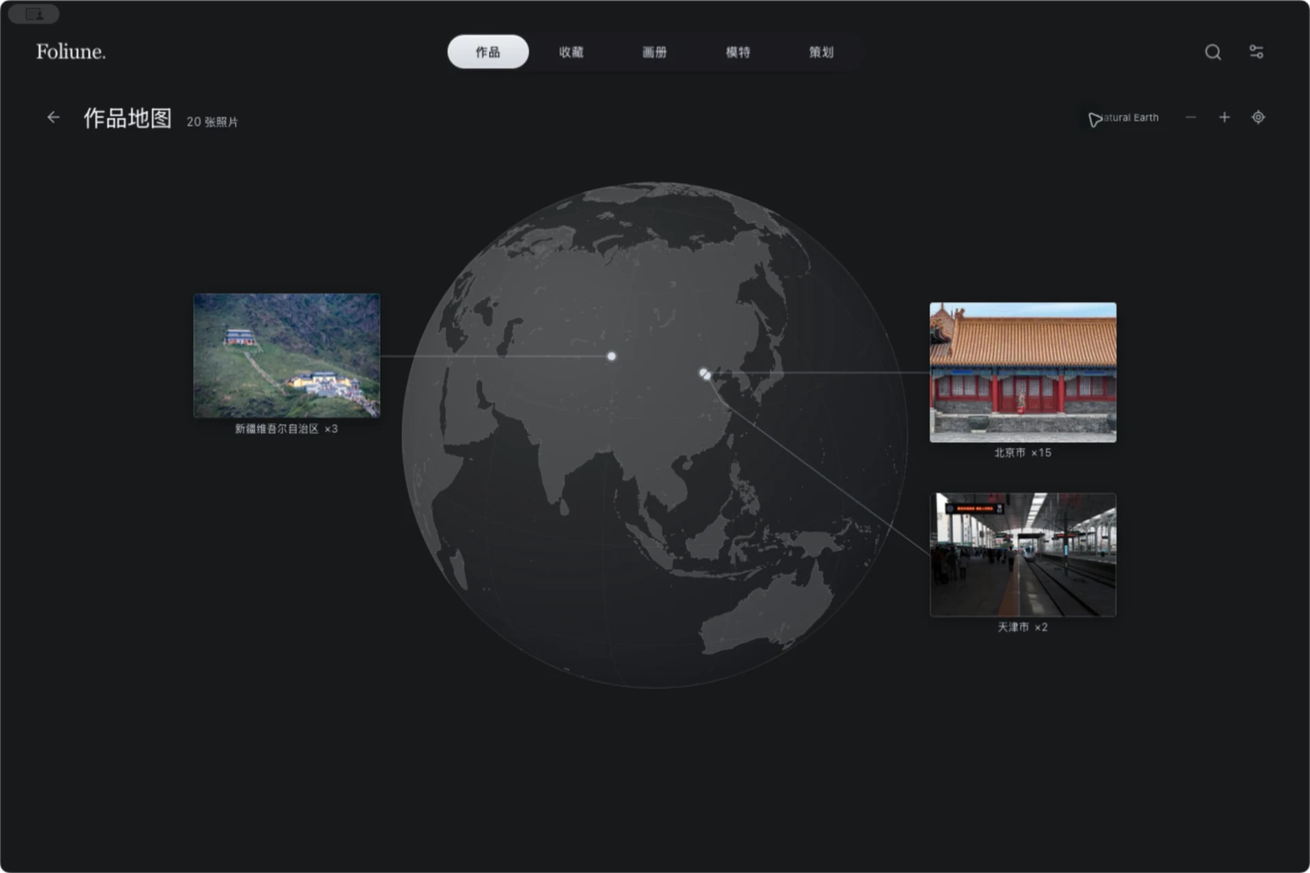
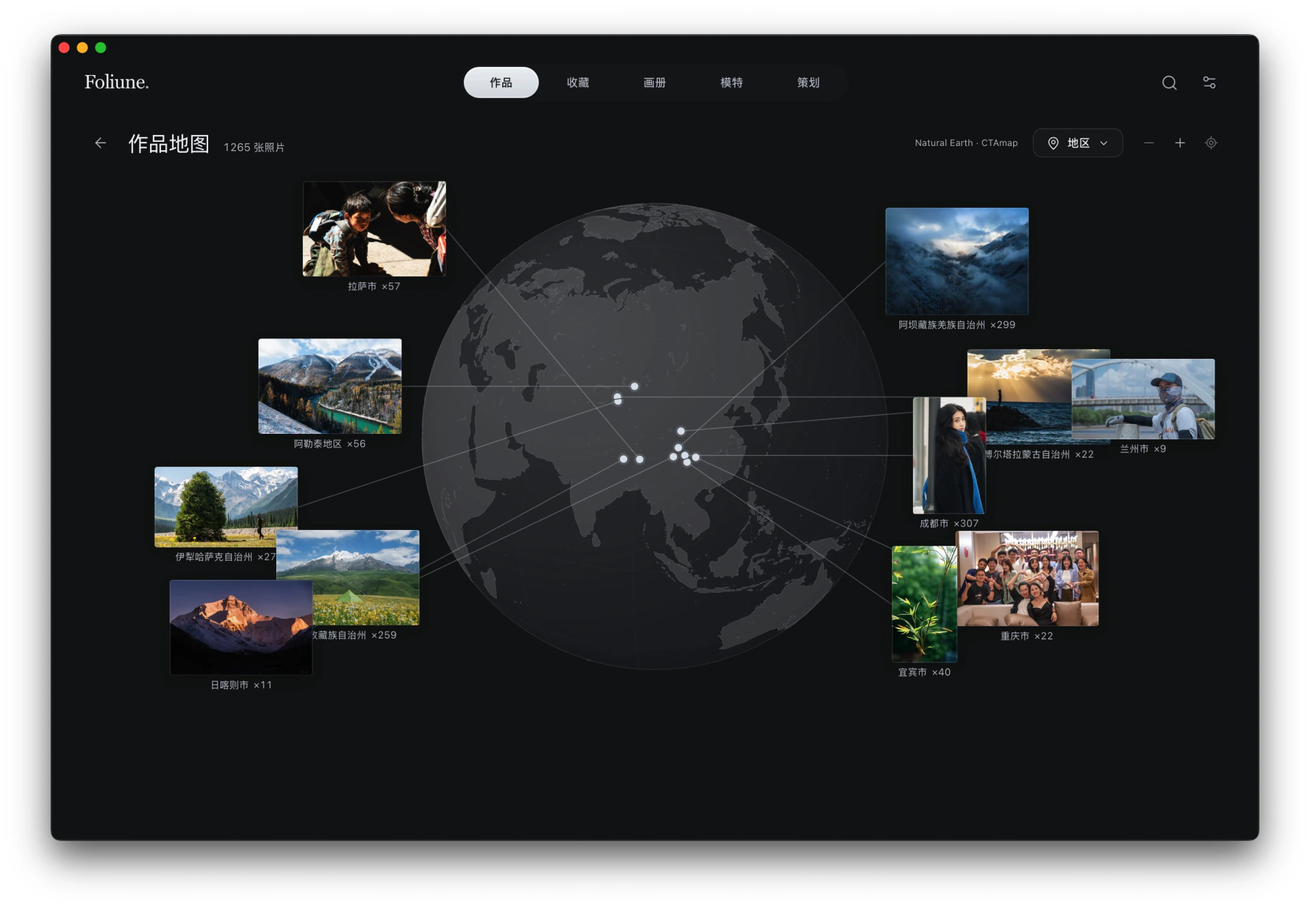
feat(website): 区分下载平台并更新双语作品地图截图
在中英文官网区分 macOS 下载和 Windows 计划状态，将首次打开须知移到下载按钮前。官网及 README 使用各自语言的作品地图截图，并同步更新截图来源说明。

收录相簿电视欣赏的可行性研究，记录兼容性判断和真机验收条件。

diff --git a/site/en.html b/site/en.html
@@ -77,7 +77,7 @@
           <h2 id="work-map-title">Revisit work by location</h2>
           <p>Select a representative photograph on the offline globe to see more work from that region. You can also set a shooting region for photos without GPS data.</p>
         </div>
-        <img class="screenshot" src="assets/works-map.webp" alt="Foliune’s Work Map with lines connecting photographs from Beijing, Tianjin, and Xinjiang to locations on the globe." width="1920" height="1280" loading="lazy" decoding="async">
+        <img class="screenshot" src="assets/works-map-en.webp" alt="Foliune’s English Work Map with lines connecting representative photographs to their shooting locations on the globe." width="1920" height="1331" loading="lazy" decoding="async">
       </section>
 
       <section class="feature" aria-labelledby="planning-title">
@@ -124,31 +124,36 @@
       </section>
 
       <section class="download" id="download" aria-labelledby="download-title">
-        <div>
-          <h2 id="download-title">Download Foliune</h2>
-          <p class="download-version"><span id="release-version" hidden><span id="release-tag"></span> <span aria-hidden="true">·</span> </span>macOS <span aria-hidden="true">·</span> Apple Silicon</p>
-        </div>
-        <div class="download-details">
-          <div class="download-links">
-            <a class="button" id="release-download" href="https://github.com/stardut/Foliune/releases/latest">
-              <span id="release-download-label" data-download-label="Download DMG">Download on GitHub</span>
-              <svg aria-hidden="true" width="15" height="15" viewBox="0 0 16 16" fill="none" stroke="currentColor" stroke-width="1.4" stroke-linecap="round" stroke-linejoin="round">
-                <path d="M8 2v8m-3-3 3 3 3-3M3 11v3h10v-3"/>
-              </svg>
-            </a>
-            <a class="button button-secondary" id="release-notes" href="https://github.com/stardut/Foliune/releases/latest" hidden>Release notes
-              <svg aria-hidden="true" width="15" height="15" viewBox="0 0 16 16" fill="none" stroke="currentColor" stroke-width="1.4" stroke-linecap="round" stroke-linejoin="round">
-                <path d="M4 2h5l3 3v9H4zM9 2v3h3M6 8h4m-4 3h4"/>
-              </svg>
-            </a>
-          </div>
-          <section class="first-open" aria-labelledby="first-open-title">
-            <h3 id="first-open-title">Opening Foliune for the first time</h3>
-            <p>The developer hasn’t saved up for an Apple Developer membership yet.</p>
-            <p>If macOS blocks the first launch, follow this path.</p>
-            <p class="first-open-path"><span>System Settings</span> <span>→ Privacy &amp; Security</span> <span>→ <strong>Open Anyway</strong></span></p>
+        <h2 id="download-title">Download Foliune</h2>
+        <div class="download-platforms">
+          <section class="download-macos" aria-labelledby="download-macos-title">
+            <h3 id="download-macos-title">macOS</h3>
+            <p class="download-version"><span id="release-version" hidden><span id="release-tag"></span> <span aria-hidden="true">·</span> </span>For Macs with Apple silicon</p>
+            <section class="first-open" aria-labelledby="first-open-title">
+              <h4 id="first-open-title">Opening Foliune for the first time</h4>
+              <p>The developer hasn’t saved up for an Apple Developer membership yet.</p>
+              <p>If macOS blocks the first launch, follow this path.</p>
+              <p class="first-open-path"><span>System Settings</span> <span>→ Privacy &amp; Security</span> <span>→ <strong>Open Anyway</strong></span></p>
+            </section>
+            <div class="download-links">
+              <a class="button" id="release-download" href="https://github.com/stardut/Foliune/releases/latest">
+                <span id="release-download-label" data-download-label="Download for macOS">Download for macOS on GitHub</span>
+                <svg aria-hidden="true" width="15" height="15" viewBox="0 0 16 16" fill="none" stroke="currentColor" stroke-width="1.4" stroke-linecap="round" stroke-linejoin="round">
+                  <path d="M8 2v8m-3-3 3 3 3-3M3 11v3h10v-3"/>
+                </svg>
+              </a>
+              <a class="button button-secondary" id="release-notes" href="https://github.com/stardut/Foliune/releases/latest" hidden>Release notes
+                <svg aria-hidden="true" width="15" height="15" viewBox="0 0 16 16" fill="none" stroke="currentColor" stroke-width="1.4" stroke-linecap="round" stroke-linejoin="round">
+                  <path d="M4 2h5l3 3v9H4zM9 2v3h3M6 8h4m-4 3h4"/>
+                </svg>
+              </a>
+            </div>
+            <p class="download-note">To update, go to Settings → App Updates.</p>
           </section>
-          <p class="download-note">To update, go to Settings → App Updates.</p>
+          <section class="download-windows" aria-labelledby="download-windows-title">
+            <h3 id="download-windows-title">Windows</h3>
+            <p class="platform-status">Planned</p>
+          </section>
         </div>
       </section>
     </main>

diff --git a/site/index.html b/site/index.html
@@ -78,7 +78,7 @@
           <h2 id="work-map-title">按地点回看作品</h2>
           <p>在离线地球上点选代表照，回看当地拍下的作品。照片缺少 GPS 时，可手动补录拍摄地区。</p>
         </div>
-        <img class="screenshot" src="assets/works-map.webp" alt="Foliune 作品地图，北京、天津与新疆的代表照片通过引线连接地球上的拍摄地点。" width="1920" height="1280" loading="lazy" decoding="async">
+        <img class="screenshot" src="assets/works-map.webp" alt="Foliune 中文作品地图，拉萨、阿勒泰、成都等地区的代表照片通过引线连接地球上的拍摄地点。" width="1920" height="1331" loading="lazy" decoding="async">
       </section>
 
       <section class="feature" aria-labelledby="planning-title">
@@ -125,31 +125,36 @@
       </section>
 
       <section class="download" id="download" aria-labelledby="download-title">
-        <div>
-          <h2 id="download-title">下载 Foliune</h2>
-          <p class="download-version"><span id="release-version" hidden><span id="release-tag"></span> <span aria-hidden="true">·</span> </span>macOS <span aria-hidden="true">·</span> Apple Silicon</p>
-        </div>
-        <div class="download-details">
-          <div class="download-links">
-            <a class="button" id="release-download" href="https://github.com/stardut/Foliune/releases/latest">
-              <span id="release-download-label" data-download-label="下载 DMG">前往 GitHub 下载</span>
-              <svg aria-hidden="true" width="15" height="15" viewBox="0 0 16 16" fill="none" stroke="currentColor" stroke-width="1.4" stroke-linecap="round" stroke-linejoin="round">
-                <path d="M8 2v8m-3-3 3 3 3-3M3 11v3h10v-3"/>
-              </svg>
-            </a>
-            <a class="button button-secondary" id="release-notes" href="https://github.com/stardut/Foliune/releases/latest" hidden>查看版本说明
-              <svg aria-hidden="true" width="15" height="15" viewBox="0 0 16 16" fill="none" stroke="currentColor" stroke-width="1.4" stroke-linecap="round" stroke-linejoin="round">
-                <path d="M4 2h5l3 3v9H4zM9 2v3h3M6 8h4m-4 3h4"/>
-              </svg>
-            </a>
-          </div>
-          <section class="first-open" aria-labelledby="first-open-title">
-            <h3 id="first-open-title">首次打开 Foliune</h3>
-            <p>开发者还没攒够 Apple 开发者会员费。</p>
-            <p>若首次打开被拦截，请按这个路径操作。</p>
-            <p class="first-open-path"><span>系统设置</span> <span>→ 隐私与安全性</span> <span>→ <strong>仍要打开</strong></span></p>
+        <h2 id="download-title">下载 Foliune</h2>
+        <div class="download-platforms">
+          <section class="download-macos" aria-labelledby="download-macos-title">
+            <h3 id="download-macos-title">macOS</h3>
+            <p class="download-version"><span id="release-version" hidden><span id="release-tag"></span> <span aria-hidden="true">·</span> </span>适用于搭载 Apple 芯片的 Mac</p>
+            <section class="first-open" aria-labelledby="first-open-title">
+              <h4 id="first-open-title">首次打开 Foliune</h4>
+              <p>开发者还没攒够 Apple 开发者会员费。</p>
+              <p>若首次打开被拦截，请按这个路径操作。</p>
+              <p class="first-open-path"><span>系统设置</span> <span>→ 隐私与安全性</span> <span>→ <strong>仍要打开</strong></span></p>
+            </section>
+            <div class="download-links">
+              <a class="button" id="release-download" href="https://github.com/stardut/Foliune/releases/latest">
+                <span id="release-download-label" data-download-label="下载 macOS 版">前往 GitHub 下载 macOS 版</span>
+                <svg aria-hidden="true" width="15" height="15" viewBox="0 0 16 16" fill="none" stroke="currentColor" stroke-width="1.4" stroke-linecap="round" stroke-linejoin="round">
+                  <path d="M8 2v8m-3-3 3 3 3-3M3 11v3h10v-3"/>
+                </svg>
+              </a>
+              <a class="button button-secondary" id="release-notes" href="https://github.com/stardut/Foliune/releases/latest" hidden>查看版本说明
+                <svg aria-hidden="true" width="15" height="15" viewBox="0 0 16 16" fill="none" stroke="currentColor" stroke-width="1.4" stroke-linecap="round" stroke-linejoin="round">
+                  <path d="M4 2h5l3 3v9H4zM9 2v3h3M6 8h4m-4 3h4"/>
+                </svg>
+              </a>
+            </div>
+            <p class="download-note">已安装可在「设置 → 应用更新」检查新版。</p>
           </section>
-          <p class="download-note">已安装可在「设置 → 应用更新」检查新版。</p>
+          <section class="download-windows" aria-labelledby="download-windows-title">
+            <h3 id="download-windows-title">Windows</h3>
+            <p class="platform-status">计划中</p>
+          </section>
         </div>
       </section>
     </main>

diff --git a/site/styles.css b/site/styles.css
@@ -290,16 +290,38 @@ h2 {
 }
 
 .download {
-  display: grid;
-  grid-template-columns: minmax(0, 1fr) minmax(0, 1fr);
-  align-items: start;
-  gap: clamp(1.5rem, 5vw, 5rem);
   padding: clamp(2.5rem, 6vw, 5rem) 0;
   border-block: 1px solid var(--line);
 }
 
+.download-platforms {
+  display: grid;
+  grid-template-columns: minmax(0, 1.65fr) minmax(0, 0.85fr);
+  align-items: start;
+  gap: clamp(2.5rem, 7vw, 7rem);
+  margin-top: clamp(2rem, 4vw, 3rem);
+}
+
+.download-platforms h3 {
+  margin: 0;
+  font-size: 1.5rem;
+  font-weight: 500;
+  line-height: 1.3;
+  letter-spacing: -0.025em;
+}
+
+.download-windows h3 {
+  color: var(--muted);
+}
+
+.platform-status {
+  margin-top: 0.5rem;
+  color: var(--caption);
+  font-size: 0.9375rem;
+}
+
 .download-version {
-  margin-top: 0.75rem;
+  margin-top: 0.5rem;
   color: var(--muted);
   font-size: 0.9375rem;
   font-variant-numeric: tabular-nums;
@@ -322,13 +344,15 @@ h2 {
 
 .first-open {
   margin-top: 1.5rem;
-  padding-top: 1.25rem;
-  border-top: 1px solid var(--line);
+  margin-bottom: 1.25rem;
+  padding: 1.25rem 1.5rem;
+  border-radius: 0.625rem;
+  background: #ffffff0d;
   color: var(--muted);
   font-size: 0.875rem;
 }
 
-.first-open h3 {
+.first-open h4 {
   margin: 0 0 0.625rem;
   color: var(--ink);
   font-size: 0.9375rem;
@@ -371,7 +395,7 @@ h2 {
 }
 
 @media (max-width: 56rem) {
-  .hero, .feature, .feature-reversed, .download {
+  .hero, .feature, .feature-reversed, .download-platforms {
     grid-template-columns: minmax(0, 1fr);
   }
 

diff --git a/docs/album-tv-playback-research.md b/docs/album-tv-playback-research.md
@@ -1,0 +1,97 @@
+# 相簿电视欣赏可行性研究
+
+研究日期为 2026-11-19。结论基于仓库源码和平台官方资料，实际电视、macOS 原生窗口与画质仍待验证。
+
+## 第二轮 · Foliune 内发现同 Wi-Fi 的国产电视
+
+用户已明确目标是直接在 Foliune 选择电视开播。以下是当前实施方向，后半部分保留首轮对系统外屏的研究。
+
+### 可行性判断
+
+**优先验证 DLNA／UPnP AV 的主动推送模式。** Foliune 在 Mac 上作为控制端，搜索电视的 MediaRenderer 接收服务。用户选定一台电视后，电视从 Mac 读取本次会话的媒体，Mac 控制播放队列。对支持这条链路的机型，日常可做到选中电视即播，也能避开整屏镜像。厂商可能要求打开电视的投屏开关，或者在首次接收时用遥控器允许连接。 [UPnP AV 架构](https://openconnectivity.org/wp-content/uploads/2015/11/UPnP-av-AVArchitecture-v1-20020622.pdf) · [长虹首次允许投屏说明](https://cn.changhong.com/fw/gdfw/gwzn/faq/202609/t20260930_497530.html?f=nvi)
+
+市场覆盖率目前无法可靠量化。厂商的宣传将屏幕镜像、手机图库分享、影视 App 投视频、电视主动浏览共享文件等称为投屏。Foliune 需要逐型号确认三个条件：**Mac 发现电视、电视接受局域网本地媒体、Mac 能控制连续播放**。电视能显示 U 盘照片、接收某个 App 的在线视频或声明支持 DLNA，只能说明对应能力。电视固件、销售地区、投屏组件版本以及接收模式都可能改变实际结果。
+
+### 中国大陆常见品牌的公开证据
+
+| 品牌／样本 | 厂商资料证实的能力 | 对 Foliune 的判断 |
+| --- | --- | --- |
+| 小米／Redmi | 小米「米联」帮助明确提到同局域网、兼容 DLNA，以及投放本地图片。该页使用旧款小米盒子和早期手机系统作为示例。小米 S Pro Mini LED 2025 款和 Redmi A 2025 款的互联清单确认屏幕镜像，并要求对应电视投屏版本。 | **优先实测。** 有历史图片推送证据，现代机型样本仍要验证标准接收服务、JPEG 和逐张切换。可选一台 S Pro 和一台 Redmi A 系列，对照两台的固件及投屏组件。 [米联帮助](https://www.mi.com/service/mitv/wireless) · [小米跨端智联适配清单](https://os.mi.com/continuity/abilities/ab0000) |
+| 华为智慧屏／MateTV | 影视 App 指南明确给出同 WLAN 的 DLNA 投屏。MateTV／MateTV 2 的指南也提到应用内视频、音乐和图片，具体步骤指向影视 App 指南。华为手机图库另有向兼容设备推图片的 DLNA 说明。MateTV 的苹果设备镜像流程需要在电视上安装「小柚投屏」。 | **优先实测一台 Vision 或普通智慧屏。** 有强视频证据和图片方向线索，需实测 Mac 发出的局域网 JPEG、MP4 和切换控制。MateTV 系列单独统计，手机图库成功与第三方桌面发端成功分别记录。 [华为影视 App 投屏](https://consumer.huawei.com/cn/support/content/zh-cn15790907/) · [MateTV 投屏指南](https://consumer.huawei.com/cn/support/content/zh-cn16077448/) · [华为手机图库 DLNA](https://consumer.huawei.com/cn/support/content/zh-cn15916424/) |
+| TCL | 全球官网明确记载指定手机 TCL 20 Pro 5G 向 C825／R646 同网 DLNA 推送照片、视频和音频。中国大陆 98GA2 商用机页面将图片多屏互动、MacBook AirPlay 镜像、影视 App 投屏分别列出。大陆家用 V8E 产品页有多种投屏和 NFC 手机镜像说明。 | **优先实测一台大陆家用机。** C825／R646 有具体的照片推送记录，销售地区、固件和通用 Mac 控制端仍待核对。商用机型号及海外 Google TV 的能力单独记录。 [TCL 全球 C825／R646](https://www.tcl.com/global/en/blog/work-smarter-with-tcl-multi-screen-collaboration) · [大陆 98GA2](https://www.tcl.com/cn/zh/commercial-tvs/98-inch-ga2) · [大陆 V8E](https://www.tcl.com/cn/zh/tvs/65-inch-v8e) |
+| 海信 | 投屏接收方案厂商乐播的 2019 年海信指南描述聚好看同网搜索、手机本地资源和海信微助手相册投屏。海信海外 VIDAA U9 手册还单独说明同网媒体分享、电视端浏览及 Miracast 屏幕共享。 | 大陆机型有照片投送场景线索，适用型号／固件和通用 JPEG MediaRenderer 仍待验证。海外 VIDAA 手册仅作对照。 [乐播海信电视指南](https://www.lebo.cn/news/mobileAboutNewsContent?id=458) · [海信海外 VIDAA U9 手册](https://www.hisense.com.my/wp-content/uploads/2025/08/93041_9603VIDAA_U9_EUEMCO_E-Manual_eng_202502%E5%AE%8C%E6%95%B4%E6%9F%A5%E7%9C%8B%E7%89%88.pdf#page=51) |
+| 创维／酷开 | 酷开「爱投屏」官网区分手机内容投屏和镜像。创维商用 65BG22 在开封大学采购合同技术附件中列出 Miracast、AirPlay 和 DLNA，属于采购规格。 | 有设备级 DLNA 线索。大陆家用机的 JPEG／通用 MediaRenderer 仍待验证，可对照内置「爱投屏」开启或关闭时分别发布什么接收服务。 [酷开爱投屏](https://www.skytv.cc/) · [开封大学采购合同第 50 页](https://erqi.zfcg.henan.gov.cn/cmsweb81e27e/nas/webfile2024/kaifeng/rootfiles/2025/09/04/bfad32688f0f43948fb10f380a9cbd09.pdf#page=50) |
+| 长虹 | 2026 年官方帮助注明同 Wi-Fi、选电视、电视端允许，以及图片等适用内容。2016 年多屏分享教程曾列出标准 DLNA 和 AirPlay，图片演示走 iPad AirPlay。 | 历史 DLNA 证据适合选样和排查，近期帮助只确认手机用法。新款的局域网 JPEG 推送、换图和首次授权仍待测。 [长虹 2026 手机投屏](https://cn.changhong.com/fw/gdfw/gwzn/faq/202609/t20260930_497530.html?f=nvi) · [长虹多屏分享旧指南](https://cn.changhong.com/fw/cjwt/czzd/ds_1024/201607/t20160731_55584.html) |
+| 荣耀／康佳 | 荣耀 Magic UI 4.0 的智慧屏文档区分首连确认、手机镜像、Miracast 电脑投影和影音 App 投屏。康佳 A8 Pro 官方资料说明有多种投屏方式。 | 可列为后续扩展样本。两者当前资料均不足以确认 Mac 通用发端可推 JPEG 或可控制相簿播放。 [荣耀智慧屏](https://www.honor.com/cn/support/content/zh-cn15831140/) · [康佳 A8 Pro](https://www.konka.com/p-1381.html) |
+
+乐播公开的接收端支持发布 DLNA 服务，另有可能需要确认的防骚扰模式。其发送端公开 SDK 面向 iOS 和 Android，虽然官方有电脑客户端，未找到面向 Foliune 的公开 macOS 发送 SDK。厂商合作和装机数字不能转成 Foliune 的支持率。 [乐播接收与发送说明](https://cloud.lebo.cn/document/9790727bb205722e.html) · [乐播 SDK 平台](https://www.lebo.cn/SdkCooperation.jsp)
+
+### 最小实施路线
+
+1. **发现设备。** React 复用相簿顺序和照片 ID 队列。Rust 宿主在用户打开「投到电视」后发起 SSDP 发现，读取 MediaRenderer 设备描述及实际服务，用 `ConnectionManager.GetProtocolInfo` 的接收侧能力作为筛选信号，再实测 `AVTransport` 对 JPEG／MP4 的支持。有设备名称、投屏图标或 MIME 声明都只是信号。网络权限及家庭 Wi-Fi 客户端隔离影响这条链路。macOS 15 起要验证局域网权限，Apple 还记录了从终端启动与正常安装启动的权限差异，验收需打开实际发行形态的 app。 [MediaRenderer 规范](https://openconnectivity.org/wp-content/uploads/2015/11/UPnP-av-MediaRenderer-v1-Device.pdf) · [Apple 局域网权限](https://developer.apple.com/documentation/technotes/tn3179-understanding-local-network-privacy?changes=_2%2C_2) · [现有桌面工程边界](architecture.md)
+2. **首轮对照两种媒体。** 用同一电视验证一张 JPEG、连续 JPEG 和一段本地 H.264 MP4。电视要能从 Mac 的局域网地址实际取到样片，控制调用返回成功与电视真实上屏分别观察。首轮可用固定样片测试，无需先做转码集成或界面。 [AVTransport 规范](https://openconnectivity.org/wp-content/uploads/2015/11/UPnP-av-AVTransport-Service.pdf)
+3. **在实测后选一种首版播放形态。** 如果 JPEG 可重复快速切换，而且没有明显黑帧、每张弹出播放器界面或误裁切，就用照片直推。播放间隔、暂停和前后张由 Mac 的队列控制。电视是否支持预取下一资源不能假定，`SetNextAVTransportURI` 在规范中是可选动作。若目标样本的视频接收明显更完整，可另评估 Mac 用 AVFoundation 将选集生成临时 MP4。电视一次播放整段，可能更适合稳定转场或配乐，代价是生成耗时、压缩、改间隔可能要重新生成，以及上一张／下一张依赖电视实际支持 `Seek`。是否能播本地 MP4 与是否能投在线影片要分别验证。 [AVTransport 规范 §§5.4.1–5.4.3、5.4.13](https://openconnectivity.org/wp-content/uploads/2015/11/UPnP-av-AVTransport-Service.pdf) · [Apple AVAssetWriter](https://developer.apple.com/documentation/avfoundation/avassetwriter?changes=lat_2)
+4. **数据和控制限于本次投屏。** 只在用户选定电视后开放该会话所需的展示副本。沿用图库 ID、读取规则、EXIF 旋正和等比呈现，可用带短时凭据的媒体 URL。媒体 URL 通常须由电视主动 GET，若电视只支持 HTTP，该链路不加密，结束时应撤销读取权限并清理临时文件。设备发现和控制端点也限制在当前局域网和已选接收器。作品目录路径、GPS、未选照片及原片均无需公开。 [现有图片读取边界](architecture.md) · [UPnP AV 架构](https://openconnectivity.org/wp-content/uploads/2015/11/UPnP-av-AVArchitecture-v1-20020622.pdf)
+
+如果实测决定采用视频形态，AirPlay 可单独评估应用内媒体投放。macOS 的 `AVRoutePickerView` 可在应用里显示系统媒体接收设备，并绑定原生 `AVPlayer`。这条路径需要兼容的 AirPlay 视频接收端及可路由的媒体，也需要实测本地生成的视频能否播放。电视的 AirPlay 镜像能力和 AVPlayer 的视频接收能力应分别记录。 [Apple AVRoutePickerView](https://developer.apple.com/documentation/AVKit/AVRoutePickerView?changes=_8&language=objc)
+
+如果各品牌的内置接收服务无法满足画质与切换体验，**Foliune 专用电视接收端**可以接管全屏舞台、预加载、换图和配对，代价是目标电视必须支持安装，并完成一次电视端设置。这适合在原生 DLNA 路线实机结果出来后再决定。 [乐播电视端安装方式示例](https://www.lebo.cn/mobile/UseHelp.html) · [华为智慧屏应用中心](https://consumer.huawei.com/cn/support/content/zh-cn00750004/)
+
+### 真机通过条件
+
+建议先以一台小米／Redmi、一台华为智慧屏和一台大陆 TCL 家用机为样本，再补海信、创维、长虹。对每台记录完整型号、地区、固件、接收组件版本和电视当前页面。样本按实际可用设备替换。
+
+- **发现与确认**。电视开机停留在首页时能否发现，是否要先开启投屏服务或打开接收页，首次和第二次是否需要遥控器确认。记录从打开设备列表到选中设备的路径。
+- **本地媒体**。同一组测试素材分别推送 JPEG 和本地短 MP4，记录实际 HTTP 取图、首张上屏、瞬时黑帧、每张切换时的电视提示及停止结果。测试先短队列，再以两本相簿走连续播放、暂停、翻页、跨相簿和断开；MP4 对照额外测定位和准备时间。
+- **摄影呈现**。用横幅、竖幅、方幅、全景和有细节的照片检查比例、边缘裁切、暗部和颜色。测试 1080p 与 2160p 的派生样片，实看画面细节，不用面板规格推定投屏画质。发生断线时检查 Mac 提示、关闭后是否仍能读取会话资源，以及电视是否残留上一帧。
+- **覆盖结论**。只有在型号和固件的实际收图及连续控制通过后，才将该组合列入支持清单。把只验证了单张、只接受 MP4、需要额外接收应用或需重复遥控确认的组合分别记录。
+
+本轮完成源码和官方资料核查，没有取得电视真机结果。初版方向是先验证照片直推，并以本地视频作兼容性对照。电视端的高级感由完整构图、真实细节和连贯换图验收，Mac 控件或接收成功日志不能代替这项验收。
+
+## 第一轮 · macOS 系统外屏方案
+
+第一轮评估了「多相簿欣赏 + macOS 已连接显示器全屏播放」。 用户在系统连接 AirPlay 电视或 Apple TV，并选择扩展显示，然后在 Foliune 选择一个或多个相簿及要播放的屏幕。电视呈现完整照片，Mac 保留播放控制。HDMI 扩展屏可用同一应用路径验证。AirPlay 配对由 macOS 处理，Foliune 负责照片队列、播放状态和画面。 [Apple AirPlay](https://support.apple.com/en-ie/guide/mac-help/mchld7e543a0/mac) · [Mac 连接 HDMI](https://support.apple.com/en-gb/108928)
+
+「在 Foliune 内搜索同网电视并直接播放」是另一种体验，需要按电视所支持的协议分别实现和验证。如果目标电视只有 DLNA 或 Google Cast，且不能作为 Mac 扩展屏，首版无线方案就无法覆盖该电视。直接投屏应先以具体型号、地区版本和固件选择接收协议。
+
+## 可复用的现有实现
+
+| 能力 | 源码现状与接入判断 |
+| --- | --- |
+| 相簿成员及顺序 | `libraryAlbums` 已组织相簿及有效、废弃照片。相簿详情沿用 `sortAlbumPhotos` 或作品分组的浏览顺序，传入有序照片 ID。可复用这些规则构造多个相簿的队列。 [相簿模型](../apps/desktop/src/features/library-albums.ts) · [相簿工作区](../apps/desktop/src/features/LibraryWorkspace.tsx) · [产品约定](product.md) |
+| 播放规则 | `App` 已将照片 ID 列表交给 `PhotoPlayer`。播放器包含自动播放、暂停、前后翻页、随机、循环、停留时间和当前会话配乐。外屏播放应共用一个队列、当前帧和播放计时器，避免两个窗口各自推进。 [播放入口](../apps/desktop/src/App.tsx) · [PhotoPlayer](../apps/desktop/src/features/PhotoPlayer.tsx) |
+| 照片舞台 | 已有相邻照片预解码、切换动效、减少动态效果和等比适配。电视舞台可复用照片呈现机制，控件留在主窗口。现有播放器是主窗口内的模态，独立外屏窗口和断开后的状态处理需要新增。 [PlayerPresentation](../apps/desktop/src/features/PlayerPresentation.tsx) · [播放器样式](../apps/desktop/src/features/player.css) |
+| 照片数据 | 应用使用受限 asset URL 和按照片 ID 读取外部原件的 `work-photo` 协议。独立的本地 Tauri 窗口可沿用应用内读取机制，目标窗口权限仍需按职责核对。由电视独立取图时，电视无法使用这些本地 WebView URL，需要单独的会话取图方式。 [图像 API](../apps/desktop/src/lib/api.ts) · [Tauri 配置](../apps/desktop/src-tauri/tauri.conf.json) · [工程边界](architecture.md) |
+| 外接屏 | 项目中的 Tauri API 版本已提供 `availableMonitors` 和 `setFullscreenOnMonitor`，用于系统已识别的显示器。显示器枚举得不到尚未配对的电视清单。AirPlay 扩展屏在连接、断开及重连时的枚举和定位须用实机确认。 [Tauri Window API](https://v2.tauri.app/reference/javascript/api/namespacewindow/#availablemonitors) · [当前窗口权限](../apps/desktop/src-tauri/capabilities/default.json) |
+
+## 连接方式与边界
+
+| 方式 | 能提供的体验 | 实施判断 |
+| --- | --- | --- |
+| macOS AirPlay 扩展显示、HDMI 扩展显示 | 电视全屏看照片，Mac 保留控制。AirPlay 需要兼容的接收设备和系统连接，HDMI 需要相应接口或转接。 | **首选。** 两条连接路径复用同一外屏播放器。画面实际清晰度、色彩、帧间稳定性由目标 Mac、电视、显示模式和连接决定。 [Apple 扩展显示](https://support.apple.com/en-ie/guide/mac-help/mchlb5f905a1/mac) · [Apple HDMI](https://support.apple.com/en-gb/108928) |
+| macOS 系统镜像或共享窗口 | 已连接 AirPlay 的用户可先试单相簿本机欣赏。整屏镜像会同步桌面和控件，支持单窗口共享的系统与接收设备可缩小展示范围。 | 适合快速体验。系统文档列出镜像、扩展和共享窗口，具体选项按实机确认。 [Apple AirPlay](https://support.apple.com/en-ie/guide/mac-help/mchld7e543a0/mac) |
+| Windows Miracast | 兼容 PC 和电视可通过 `Win + K` 连接，使用扩展显示时可沿用外屏思路。 | 后续 Windows 验证项。项目当前只有 macOS 构建和原生操作证据。 [Microsoft 无线显示](https://support.microsoft.com/en-gb/windows/hardware/display-graphics/screen-mirroring-and-projecting-to-your-pc-or-wireless-display?nochrome=true) · [项目 Windows 说明](../apps/windows/README.md) |
+| Google Chrome 投放 | Chrome 可以将整屏或浏览器标签页投向兼容设备。可用整屏投放现有播放器，作为只支持 Cast 的电视的连通性对照。 | 依赖 Chrome 和用户手动选设备，整屏模式会显示桌面与控件，配乐可能仍从电脑输出。 [Chrome 投放说明](https://support.google.com/chrome/answer/3228332) |
+| 应用内 Google Cast | 通过受支持的发送端控制 Cast 电视上的自定义接收页面，电视端负责呈现。 | Google 的桌面 Web Sender 面向支持 Cast 的浏览器，Tauri 用 WKWebView／WebView2，官方未列出这两个嵌入式宿主的发送支持。相册需要 Custom Web Receiver，涉及注册、发布时的 HTTPS 与电视能否取到照片。Google 标注静态图像显示上限 720p，并说明自定义接收页面在 Chromecast 的图形层为 720p、部分 Android TV 可到 1080p。4K 视频能力无法证明照片舞台能以 4K 呈现。 [Google Web Sender](https://developers.google.com/cast/docs/web_sender) · [Web Receiver](https://developers.google.com/cast/docs/web_receiver) · [注册要求](https://developers.google.com/cast/docs/registration) · [图片格式](https://developers.google.com/cast/docs/media#image_formats) · [接收端图形层](https://developers.google.com/cast/docs/web_receiver/core_features#guidelines_for_android_tv_compatibility) · [Tauri WebView](https://v2.tauri.app/concept/process-model/) |
+| DLNA／UPnP AV | 对支持远程控制的 MediaRenderer，可让电视按 URI 读取文件。部分电视有兼容功能，图像、切换、停留和播放界面要按型号实测。 | 可作指定型号的兼容验证。电视能浏览共享媒体或能播 DLNA 视频，不足以证明能接收照片队列、保持等比构图或稳定无黑帧切换。 [UPnP AV 架构](https://openconnectivity.org/wp-content/uploads/2015/11/UPnP-av-AVArchitecture-v1-20020622.pdf) · [小米投屏支持示例](https://www.mi.com/service/mitv/wireless) |
+| 电视浏览器或专用接收应用 | 电视主动打开同网播放会话，或由安装好的接收应用配对。Foliune 可控制照片舞台。 | 架构上可行。浏览器方案的入口、全屏、遥控器和实际画质依赖机型，接收应用另有开发与分发成本。合适的路径取决于目标设备，当前无实机证据。 |
+
+Apple 的 `AVRoutePickerView` 提供 AirPlay 媒体路由。现有幻灯片由 WebView 图片元素绘制，本地配乐则由音频元素独立播放。仅增加媒体路由选择器不能据此实现照片舞台的共享。 [Apple AVFoundation AirPlay](https://developer.apple.com/documentation/avfoundation/supporting-airplay-in-your-app) · [现有播放实现](../apps/desktop/src/features/PhotoPlayer.tsx)
+
+如果后续做电视独立取图，建议按次建立短时会话，只提供用户确认播放的照片和必要控制，使用高熵会话凭据，停止或退出即撤销。沿用稳定照片 ID 校验资源，使用旋正、等比的展示副本，避免披露原件路径、EXIF 或未选相簿。需要按接收设备实测局域网权限、网络隔离、HTTP/HTTPS、跨域与首次载入。Google 文档允许接收器加载 HTTP 内容，实际私有地址取图仍须验证特定接收器的请求方式。 [Google 注册要求](https://developers.google.com/cast/docs/registration) · [Google Cast 局域网权限](https://support.google.com/chromecast/answer/10063094)
+
+## 首版体验建议
+
+1. **选相簿。** 单本从详情页已有「欣赏」进入，多本建议从相簿列表进入多选。首版可让每次多选从当前相簿列表取材，是否需要跨收藏和作品连续选取另由实际场景决定。
+2. **确认播放范围。** 显示已选相簿和实际播放张数。建议按本次选簿顺序串接，每本沿用浏览顺序，仅纳入当前有效成员。同一个稳定照片 ID 跨相簿重复时只保留首次出现的位置。采用本次会话队列，空相簿无可播内容时给出反馈，原件不可用时延续播放器的明确状态。
+3. **选屏并播放。** 在欣赏入口提供「在外接屏播放」，只列系统已经识别的独立屏幕。没有可选屏幕时提示通过 macOS 控制中心连接 AirPlay 并选择扩展显示，或连接 HDMI。连接成功后，Mac 保留播放、暂停、前后切换、间隔、循环、随机及停止。配乐以系统实际音频输出为准，验收时明确验证声音落在 Mac 或电视。
+4. **电视端只显示作品。** 中性暗底、保留横竖幅和方幅的完整构图，按可用画面等比居中。控件和错误操作留在 Mac。预加载下一张，照片就绪后才切换，避免黑帧。电视断开时结束外屏会话并告知用户，避免照片窗口自动落回错误屏幕。停止欣赏关闭 Foliune 播放窗口，系统 AirPlay 连接由用户管理。
+
+## 实机通过条件
+
+- 用隔离图库，包含至少两本有重复照片的相簿、横竖幅及方幅、细节丰富的高清图、EXIF 旋转图及外部原件缺失样本。验证单本、多本、顺序、去重、空队列、缺原片和排序一致性。
+- 用 Apple Silicon Mac 加一台实际目标 AirPlay 电视或 Apple TV。先用现有单相簿播放器验证系统连通，再验证扩展屏枚举和目标窗口全屏。可用 HDMI 建立同一电视的画面对照。
+- 在 release 桌面应用记录 Mac 系统版本、电视型号与固件、连接模式、实际输出分辨率、第一张上屏时间和连续切换表现。检查照片无裁切、无明显黑帧，竖图边距与横图细节合适，并观察暗部与颜色偏移。若有配乐，核对音频落点和暂停是否同步。
+- 播放中反复断开、切换目标屏、停止和重新开始，检查电视端和主窗口状态同步，退出后无播放窗口或音频残留。用真实电视照片或短录屏记录画面和交互结果，分别判定功能与视觉质量。
+
+本轮的设计取舍是让电视端专注于照片的完整构图、细节和播放节奏，把连接与控制放在 Mac。首版范围与队列规则均为研究建议。本次验证覆盖源码和官方资料，尚无电视实测、4K 或色彩验收结论。

diff --git a/docs/screenshots/README.md b/docs/screenshots/README.md
@@ -1,8 +1,8 @@
 # 应用截图 · Screenshots
 
-中英文 README 共用下列截图。
+中英文 README 使用下列截图，作品地图分别使用对应语言的版本。
 
-Both README editions use the screenshots below.
+Both README editions use the screenshots below, with a localized Work Map for each language.
 
 | 文件 / File | 来源 / Source |
 | --- | --- |
@@ -10,7 +10,8 @@ Both README editions use the screenshots below.
 | `photobook-shelf.jpg` | 2026-11-04 macOS 原生画册主页验收截图 / Native macOS photobook shelf capture |
 | `shoot-planning.png` | 用户提供的拍摄策划截图 / User-supplied shoot plan |
 | `model-profiles.png` | 用户提供的模特档案截图 / User-supplied model profiles |
-| [`works-map.webp`](../../site/assets/works-map.webp) | macOS 原生作品地图截图，来自含 20 张实拍照片的独立验收图库 / Native macOS Work Map capture from a review library of 20 photographs |
+| [`works-map.webp`](../../site/assets/works-map.webp) | 用户于 2026-11-19 提供的中文作品地图截图，原始文件 `Xnip2026-11-19_13-46-44.jpg`（2864 × 1984），完整等比缩小为 1920 × 1331 / User-supplied Chinese Work Map screenshot, resized proportionally in full |
+| [`works-map-en.webp`](../../site/assets/works-map-en.webp) | 用户于 2026-11-19 提供的英文作品地图截图，原始文件 `Xnip2026-11-19_13-46-32.jpg`（2864 × 1984），完整等比缩小为 1920 × 1331 / User-supplied English Work Map screenshot, resized proportionally in full |
 | [`photobook-spread.webp`](../../site/assets/photobook-spread.webp) | macOS 原生画册双页阅读截图 / Native macOS photobook reader in spread view |
 
 画册主页使用独立验收实例 `app.foliune.book-review` 的 macOS release 截图，原始文件为 `.build/verification/workspace-transitions/final-books-wide.png`。截图尺寸为 2640 × 1760。验收背景见[工作区切换记录](../workspace-transitions.md)。
@@ -30,11 +31,11 @@ Both README editions use the screenshots below.
 
 The spread shows [Paul Jarvis’s coast photograph](https://unsplash.com/photos/I_9ILwtsl_k) and [Jeff Sheldon’s plant photograph](https://unsplash.com/photos/rDLBArZUl1c), sourced via Lorem Picsum under the same Unsplash License.
 
-## 作品地图摄影来源 · Work Map photo credits
+## 历史作品地图摄影来源 · Previous Work Map photo credits
 
-照片在应用内按原比例缩小显示，截图和网页图也经过缩放。地图底图由 Natural Earth 提供。
+以下署名对应旧版作品地图截图，样本来自含 20 张实拍照片的独立验收图库。旧版截图已按网页尺寸缩放，底图由 Natural Earth 提供。
 
-The app displays reduced-size photographs at their original proportions. The screenshot was resized for the web. Basemap by Natural Earth.
+The credits below apply to the previous Work Map screenshot, captured from an independent review library of 20 photographs. The previous screenshot was resized for the web. Basemap by Natural Earth.
 
 | 作品 / Photograph | 摄影师 / Photographer | 许可 / License |
 | --- | --- | --- |

diff --git a/README.en.md b/README.en.md
@@ -26,7 +26,7 @@ You can import local photos or go to **Settings → Work Folder** to link a fold
 
 Revisit work by shooting region on the offline **Work Map**. In China, provinces can expand into cities and other prefecture-level regions when there is room for their photo cards. Select a representative photograph or a point on the globe to see more work from that region. You can set a region manually for photographs without GPS data.
 
-[See the Work Map](site/assets/works-map.webp)
+[See the Work Map](site/assets/works-map-en.webp)
 
 On macOS, use AirDrop to share the originals of selected photographs or an entire album.
 
